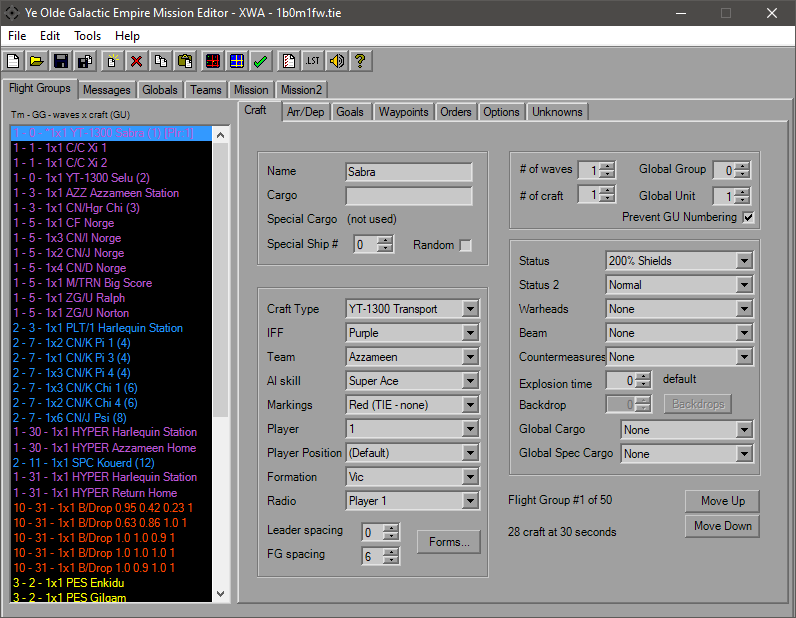
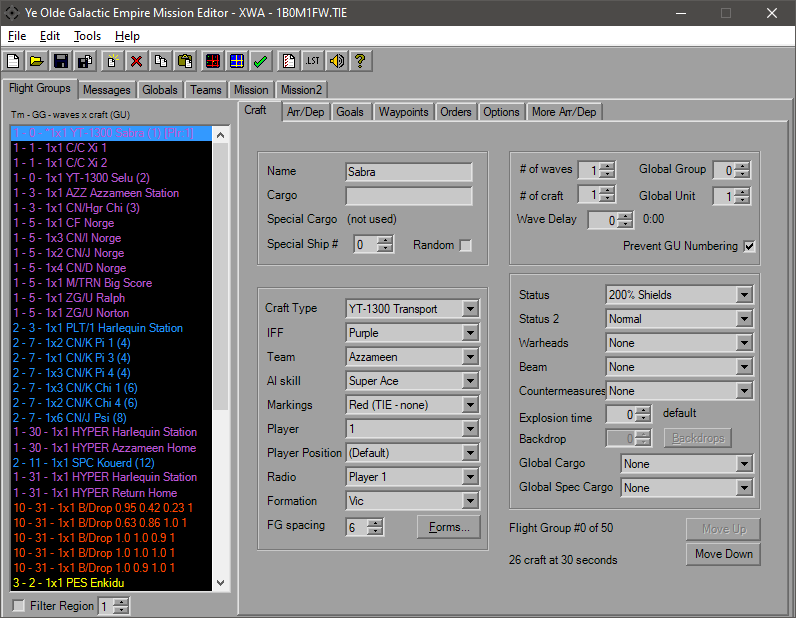
xwa help updates

diff --git a/help file/pages/XWA/flight.html b/help file/pages/XWA/flight.html
@@ -13,7 +13,7 @@
 <li><a href="#wp">Waypoints</a>
 <li><a href="#ord">Orders</a>
 <li><a href="#opt">Options</a>
-<li><a href="#unk">Unknowns</a>
+<li><a href="#more">More Arr/Dep</a>
 </ul>
 When you start YOGEME and launch the XWA platform you will be greeted by the FlightGroups-Craft tab.
 <p align=center><img src="../../images/XWA/FG-craft.png"></p>
@@ -29,7 +29,7 @@ Multiselect is now available as of v1.13. The details of the top-selected item w
 <p>The next group has several settings, from ship type, weapons, formation, etc. For the <i>Craft Type</i>, if you wish to use a custom shipilst, say for a conversion mod or you've replaced ship models, you can take the supplied <i>"xwa_shiplist_template.txt"</i> file and remove the "_template" from the name and change the contents as you see fit. YOGEME will automatically detect and attempt to load the non-template file. It is important to note that the number of entries must match the original count and that each line is the form "Full Craft Name,Abbrv". This will not affect in-game content, this is merely display within YOGEME.<br>
 <i>IFF</i> will determine which color it appears as in the CMD, while <i>Team</i> determines allegiance and who the ship blongs to. Note that this has little meaning to the AI. If you give an order to attack a ship on the same Team, an AI craft will attack and doesn't care.<br>
 For the <i>Player</i> value, use zero for AI controlled. The <i>AI skill</i> value controls how smart the FG is. Veteran is usually a good value for an average ship. <i>Markings</i> will change the highlight markings for craft that support it, which usually means Fighters.<br>
-<i>Formations</i> are the layout of the FG. If you know what you want you can select it from the dropdown, or click the button to take you to the <a href="../main/forms.html">Formations Dialog</a>. <i>Leader spacing</i> controls how far out the first craft is from the rest of the group. This is handy for strike groups; since the AI is more likely to attack the closet ship you can have the leader way out in front, leaving the rest of the wave to launch their attack. Likewise, <i>FG Spacing</i> controls how spread out the gorup is. Default value is 2, and I haven't found a consistent unit of measure for this value although it's probably related to ship class.<br>
+<i>Formations</i> are the layout of the FG. If you know what you want you can select it from the dropdown, or click the button to take you to the <a href="../main/forms.html">Formations Dialog</a>. <i>FG Spacing</i> controls how spread out the group is. Default value is 2, and I haven't found a consistent unit of measure for this value although it's probably related to ship class.<br>
 The <i>Radio</i> is used to detemrine if FlightGroups will listen to orders given by the player and will also give various status messages udring the mission.</p>
 
 <p>The third group is the numbers box. <i># of Waves</i> is how many times the group will spawn, minimum of 1. If you never want it to show up, use Arr/Dep controls. <i># of Craft</i> controls how many ships spawn at a single time, maximum of 6 as the formations can begin to corrupt above that.<br>
@@ -50,7 +50,7 @@ The <i>Explosion time</i> field acts strange, I don't mess with it normally. For
 
 <h3><a name="arrdep" class="anchor">Arr/Dep</a></h3>
 <p align=center><img src="../../images/XWA/FG-AD.png"></p>
-<p>The Arrival and Departures tab controls when, how and if the FG shows up during the mission. The Arrival and Departure panels hold the settings for those events as one would expect. When you click on a trigger (red background) it gets loaded into the drop boxes below for editing. The two buttons next to the drop boxes should be pretty obvious that they're <i>Copy</i> and <i>Paste</i> buttons. These apply to the trigger itself. The trigger can be pasted into any trigger in the mission, likewise any trigger copied elsewhere can be pasted here. The final drop box at the bottom controls which mission difficulty setting is required at launch for the FG to show up as well as a checkbox to force craft to be player-controlled (for when multiple player FGs are defined or MP missions). Handy for throwing in extra ships for Hard or removing ships in Easy.</p>
+<p>The Arrival and Departures tab controls when, how, and if the FG shows up during the mission. The Arrival and Departure panels hold the settings for those events as one would expect. When you click on a trigger (red background) it gets loaded into the drop boxes below for editing. The two buttons next to the drop boxes should be pretty obvious that they're <i>Copy</i> and <i>Paste</i> buttons. These apply to the trigger itself. The trigger can be pasted into any trigger in the mission, likewise any trigger copied elsewhere can be pasted here. The final drop box at the bottom controls which mission difficulty setting is required at launch for the FG to show up as well as a checkbox to force craft to be player-controlled (for when multiple player FGs are defined or MP missions). Handy for throwing in extra ships for Hard or removing ships in Easy.</p>
 
 <p>The Mothership settings should be straight forward, craft will default to Hyperspace. You can select any FG in the mission to be a Mothership, even if they aren't equipped with a hangar. Forgetting to reassign the Mothership's FG can lead to amusing instances of large craft leaving the "hangar" of the first FG, which is usually the player, sending them tumbling, sometimes into tiny pieces.<br><u>Player craft must have a Mothership assigned, even if assigned to itself</u>.<br>
 FlightGroups will attempt the the first option (<i>Via</i> panel) when the appropriate trigger fires and will go to the <i>Alternate</i> when the primary Mothership is not in theater. If both condtions cannot be met, the FG will hang around either holding still or sometimes flying in a straight line forever, depending on their last order.</p>
@@ -84,6 +84,8 @@ There's a time limit that can be applied and also three strings at your disposal
 
 <p>Orders in the list shown with the "&gt;&gt;" prefix denote that there is a Skip trigger defined for it. A "??" prefix means that there is a Skip trigger, but it's broken and will never fire. A "XX" prefix means that there's a Skip trigger and it's explicitly set to "FALSE", which is completely worthless.</p>
 
+<p>The <i>Handicap</i> field needs more testing, but seems like the intention was to provide a "preference" to the targets, to guide them to certain targets wtihout removing them from the list of potential targets.</p>
+
 <h3><a name="opt" class="anchor">Options</a></h3>
 <p align=center><img src="../../images/XWA/FG-Opt.png"></p>
 <p>This tab lets you set a bunch of miscellaneous settings for the FG, most of them pertaining to loadouts available to select at the start of the mission while you're sitting in the hangar.  Use the <i>Craft Category</i> to set a bunch of flyable craft, or make a custom set.  There's a bunch of weapon options to play with, too.</p>
@@ -92,8 +94,8 @@ There's a time limit that can be applied and also three strings at your disposal
 
 <p>XWA also provides Skip triggers for every order, instead of just Order #4 like in XvT.  This also helps with the dynamic capability of the missions. If the trigger is defined, the drop-down will denote it with "&lt;&lt;".  The "??" and "XX" markers are also used here.</p>
 
-<h3><a name="unk" class="anchor">Unknown</a></h3>
-<p align=center><img src="../../images/XWA/FG-Unk.png"></p>
-Not much to this tab, just the remaining values that can be changed, but may not do anything. Offsets are local to the FG. Change the <i>Order</i> and <i>Goal</i> fields to change which set of Unknowns you're editing for those sections, offsets are local to that Order or Goal.</p>
+<h3><a name="more" class="anchor">More Arr/Dep</a></h3>
+<p align=center><img src="../../images/XWA/FG-MoreAD.png"></p>
+<p>The Unknowns tab has been replaced with "More Arr/Dep", which has a few extra fields that cannot fit on the original Arr/Dep tab.  These aren't used very often, and have descriptions shown. The <i>Stop arriving when</i> field stops the condition of say a FG wave with simple Attack orders arriving, targets already destroyed so they leave, next wave arrives, repeat.</p>
 </body>
 </html>

diff --git a/help file/pages/XWA/miss.html b/help file/pages/XWA/miss.html
@@ -6,13 +6,17 @@
 <BODY>
 <p align=center><big><h1>Mission Parameters</h1></big></p>
 <p align=center><img src="../../images/XWA/Miss.png"></p>
-The first Mission tab sets a couple of other overall settings.  The large text boxes at the top are the mission texts for before and after the missions, along with the voice actor notes below them.<br><br>
-The Hanger value is essentially Mission Type, which normally will be "Family Transport" or "Calamari Cruiser".  Set a time limit for the mission if you wish, and below that is the option to force the mission to end once the primary goals are completed.<br><br>
-Briefing Officer and Briefing Emblem control a couple briefing images and mission update messages during flight.<br><br>
-There's some Unknown values that you can play with as well here.<br>
+<p>The first Mission tab sets a couple of other overall settings.  The large text boxes at the top are the mission texts for before and after the missions, along with the voice actor notes below them.</p>
+
+<p>The Hanger value is essentially Mission Type, which normally will be "Family Transport" or "Calamari Cruiser".  Set a time limit for the mission if you wish, and below that is the option to force the mission to end once the primary goals are completed.</p>
+
+<p>Briefing Officer and Briefing Emblem control a couple briefing images and mission update messages during flight.</p>
+
 <p align=center><img src="../../images/XWA/Miss2.png"></p>
-On the second tab the IFFs names can be defined, although hostility is defined on the <a href="team.html">Team</a> tab. Names can also be set for the region names, which in-game can be viewed when using certain goals or during the briefing if the region change event is used. Also editable here is the names of the Global Groups which in-game can be seen in some goals.<br><br>
-The Global Cargo fields are new, and really the only thing you need to worry about is the text box for the cargo string itself.  This lets you use a single cargo definition for several flightgroups, and there's triggers designed around this cargo string as well.  The offsets are local to the beginning of the GC definition.<br><br>
-There's also a huge chunk of space which is used for editor notes, it doesn't affect the mission in any way.
+<p>On the second tab the IFFs names can be defined, although hostility is defined on the <a href="team.html">Teams</a> tab. Names can also be set for the region names, which in-game can be viewed when using certain goals or during the briefing if the region change event is used. Also editable here are the details of the Global Groups and Global Units, which in-game the names can be seen in some goals. More testing is needed to determine if the other values have an effect.</p>
+
+<p>The Global Cargo fields have been expanded, and really the only thing you need to worry about is the text box for the cargo string itself.  This lets you use a single cargo definition for several flightgroups, and there's triggers designed around this cargo string as well.  The offsets are local to the beginning of the GC definition. It's unknown if there's any real use for the other values, although the intent of the <i>Volatility</i> field is to change the explosiveness when destroyed.</p>
+
+<p>There's also a huge chunk of space which is used for editor notes, it doesn't affect the mission in any way.</p>
 </body>
 </html>

diff --git a/help file/pages/XWA/mess.html b/help file/pages/XWA/mess.html
@@ -6,12 +6,12 @@
 <BODY>
 <p align=center><big><h1>In-Flight Messages</h1></big></p>
 <p align=center><img src="../../images/XWA/Mess.png"></p>
-Like the FlightGroup tab, Messages features a large multiselect-capable list box that displays all of the in-flight messages in their respective colors. There's a maximum of <u>64 messages</u> enforced to prevent file corruption.<br><br>
+<p>Like the FlightGroup tab, Messages features a large multiselect-capable list box that displays all of the in-flight messages in their respective colors. There's a maximum of <u>64 messages</u> enforced to prevent file corruption.</p>
 
-XWA adds a few fields to play with over the previous platforms.  You have a message string limited to <u>63 characters</u>, a long note typically used for voice actor instructions, a short note normally used for the speaker's name and the FG it's coming from (haven't seen any real effects from this).<br><br>
+<p>XWA adds a few fields to play with over the previous platforms.  You have a message string limited to <u>63 characters</u>, a long note typically used for voice actor instructions, a short note normally used for the speaker's name and the FG it's coming from (haven't seen any real effects from this).</p>
 
-You have four triggers at your disposal plus two triggers that can be used to prevent the message from firing. Useful if the message is supposed to originate from a FG, and it's been destroyed before the message can fire.  Can't transmit from the dead, can we?  Although the copy and paste buttons aren't there, you can still use the buttons on the toolbar or the mouse. The <i>Delay</i> field is the raw number and the calculated value is shown, which controls how long after the trigger is fired that the message is sent.<br><br>
+<p>You have four triggers at your disposal plus two triggers that can be used to prevent the message from firing. Useful if the message is supposed to originate from a FG, and it's been destroyed before the message can fire.  Can't transmit from the dead, can we?  Although the copy and paste buttons aren't there, you can still use the buttons on the toolbar or the mouse. The <i>Delay</i> field is the raw number and the calculated value is shown, which controls how long after the trigger is fired that the message is sent.</p>
 
-As in XvT, you can set the teams the message will be sent to, and again use Team 1 for single-player.  There's also a couple Unknowns to boot.<br>
+<p>As in XvT, you can set the teams the message will be sent to, and again use Team 1 for single-player.  The <i>Type</i>, <i>Speaker Header</i>, and <i>Special Meaning</i> need more testing to determine their functionality.</p>
 </body>
 </html>

diff --git a/help file/pages/XWA/glob.html b/help file/pages/XWA/glob.html
@@ -6,10 +6,10 @@
 <BODY>
 <p align=center><big><h1>Global Goals</h1></big></p>
 <p align=center><img src="../../images/XWA/Glob.png"></p>
-This tab is fairly straight forward and defines the global goals for each team. Four goals for each category, standard trigger rules apply, including the toolbar and mouse controls for Copy and Paste functionality.<br><br>
+<p>This tab is fairly straight forward and defines the global goals for each team. Four goals for each category, standard trigger rules apply, including the toolbar and mouse controls for Copy and Paste functionality.</p>
 
-Unlike TIE, points can be added/subtracted from each set of goals. Custom goal strings for each applicable goal state can be set as well.  Also avaiable are the additional Active Sequence and parameter fields. There are also a collection of Unknowns if you want to poke around.<br><br>
+<p>Unlike TIE, points can be added/subtracted from each set of goals, as well as each individual trigger. Custom goal strings for each applicable goal state can be set as well.  Also avaiable are the additional Active Sequence and parameter fields. There are also a collection of Unknowns if you want to poke around.</p>
 
-As was the case in previous platforms, ensure that when using single goals it's set to "OR FALSE" or "AND TRUE", as many times I've seen this been set to "AND FALSE" which basically means the goal will never complete, and you'll never finish the mission. YOGEME defaults to "OR FALSE" so you shouldn't have to worry about it.<BR>
+<p>As was the case in previous platforms, ensure that when using single goals it's set to "OR FALSE" or "AND TRUE", as many times I've seen this been set to "AND FALSE" which basically means the goal will never complete, and you'll never finish the mission. YOGEME defaults to "OR FALSE" so you shouldn't have to worry about it.</p>
 </body>
 </html>

diff --git a/help file/pages/xwa/hooks.html b/help file/pages/xwa/hooks.html
@@ -12,6 +12,6 @@
 
 <p>YOGEME can read from "[Mission].ini" as well as the individual "[Mission]_*.txt" files, and for the Hangar hook will also detect "[Mission]_[Section]_[OPT].txt" and "[Mission]_[Section]_[OPT]_[IFF#].txt", but will only write out to [Mission].tie and will delete the old .txt files as necessary. Again, this is mission only, so even if a hook supports something like Flightmodels\[Model].ini to globally replace an OPT, this will not touch those, just the Mission portion. In v1.15, the original tabs were replaced with a drop-down selector with a "*" denoting if a hook DLL was not detected, although it will not prevent you from using it. It will first search for the individual ".txt" files and load the configs from there. Then if it finds "[Mission].ini" it will load that.</p>
 
-<p>Please refer to the hook-specific readme sections for the functionalty of each particular setting. YOGEME will enforce the minimum of 4 HangarMap entries that are required for the hook, but there's no other major error-checking to speak of. Click in the text box to see the configuration of the current output. Modifications made in the text box will propagate back into the controls. Default values will not be written to file.</p>
+<p>Please refer to the hook-specific readme sections for the functionalty of each particular setting. YOGEME will enforce the minimum of 4 HangarMap entries that are required for the hook, but there's no other major error-checking to speak of. Click in the text box to see the configuration of the current output. Modifications made in the text box will propagate back into the controls. Default values will not be written to file in most cases.</p>
 </body>
 </html>

diff --git a/help file/pages/main/opt.html b/help file/pages/main/opt.html
@@ -1,7 +1,7 @@
 <HTML>
 <HEAD>
   <link rel="stylesheet" type="text/css" href="../stylesheet.css" />
-  <title>Optional Dialog</title>
+  <title>Options Dialog</title>
 </HEAD>
 <BODY>
 <p align=center><big><h2>Options Dialog</h2></big></p>
@@ -30,7 +30,9 @@ This is where you control some of the defaults and global settings used in YOGEM
 
 <p>The next two check boxes were added in v1.3. One simply uses the Recent Directory so you don't have to re-navigate to the same place repeatedly if it's not in the standard mission folder, and the other is an advanced function that checks for references to a Flightgroup during deletion. So if you delete say "X-W Red", but "Y-W Green" has arrival conditions of "100% X-W Red must be destroyed", you'll be notified of the issue.</p>
 
-<p>The "Display FGs as 1-indexed" is a option that will change how the "Flightgroup #X of Y" is shown. Default is the first FG is #0, but this will change the first to be shown as #1.</p>
+<p>The "Display FGs as 1-indexed" is an option that will change how the "Flightgroup #X of Y" is shown. Default is the first FG is #0, but this will change the first to be shown as #1.</p>
+
+<p>"Keep Selected Order" will stop the selected order index from changing when switching FGs. Otherwise, changing FGs will switch to Order 1.</p>
 
 <h3><a name="map" class="anchor">Map</a></h3>
 <p align=center><img src="../../images/Opt-Map.png"></p>

diff --git a/help file/pages/XWA/team.html b/help file/pages/XWA/team.html
@@ -6,9 +6,8 @@
 <BODY>
 <p align=center><big><h1>Team</h1></big></p>
 <p align=center><img src="../../images/XWA/team.png"></p>
-The Team tab sets the team names, allegiance and end of mission messages.  The selected team for the Team and Globals tabs are linked.<br><br>
-Not much to explain here.  XWA adds a "Neutral" allegiance, which previously was a combination of the other two.  The extra text boxes are note fields, originally used as the name of the person speaking and directions for the voice actors but otherwise don't have any effect on the mission itself.<br><br>
-The Name is limited to 17 char, EoM Messages to 64 char, the VoiceID to 20 char, and the Note to 100 char.<br><br>
-There's some Unknown values that you can play with as well here.<br>
+<p>The Team tab sets the team names, allegiance and end of mission messages.  The selected team for the Team and Globals tabs are linked.</p>
+<p>Not much to explain here.  XWA adds a "Neutral" allegiance, which previously was a combination of the other two.  The extra text boxes are note fields, originally used as the name of the person speaking and directions for the voice actors but otherwise don't have any effect on the mission itself. The drop downs specify the intended speaker FG.</p>
+<p>The Name is limited to 17 char, EoM Messages to 64 char, the VoiceID to 20 char, and the Note to 100 char.</p>
 </body>
 </html>
